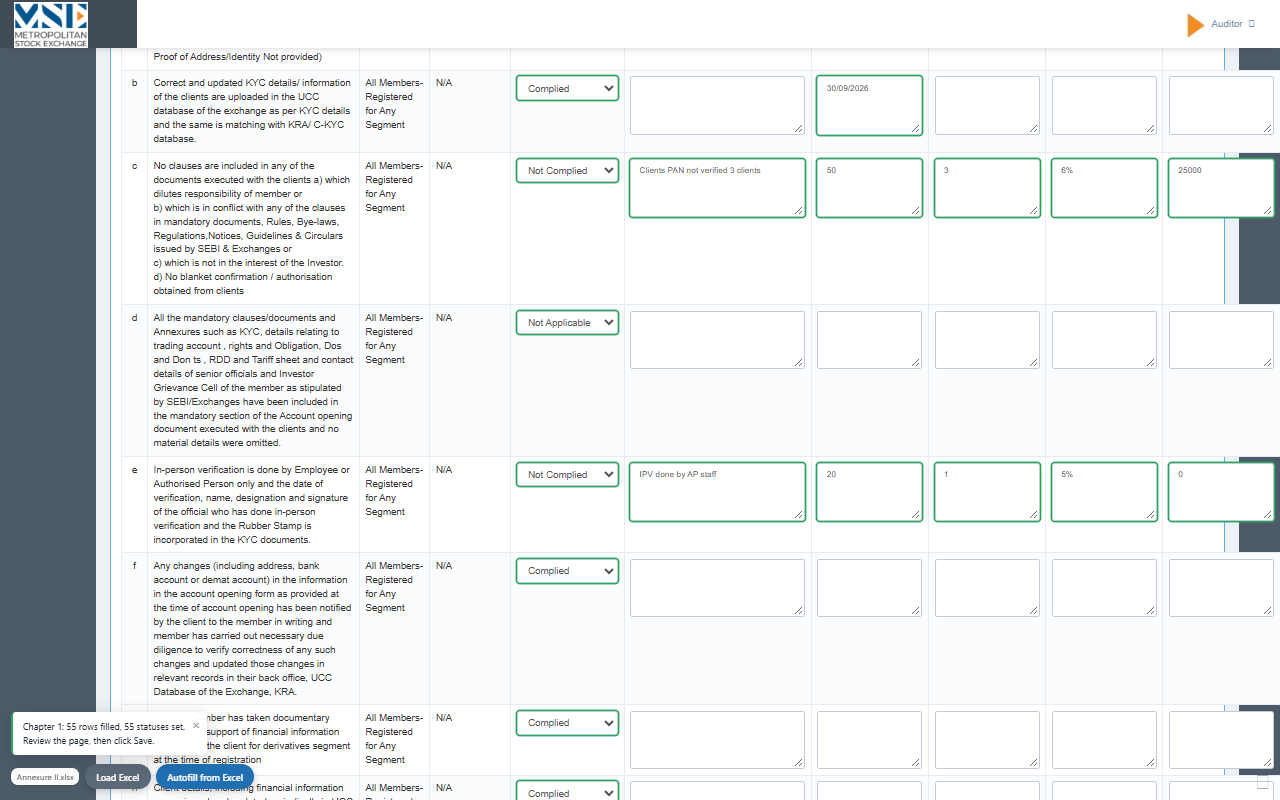
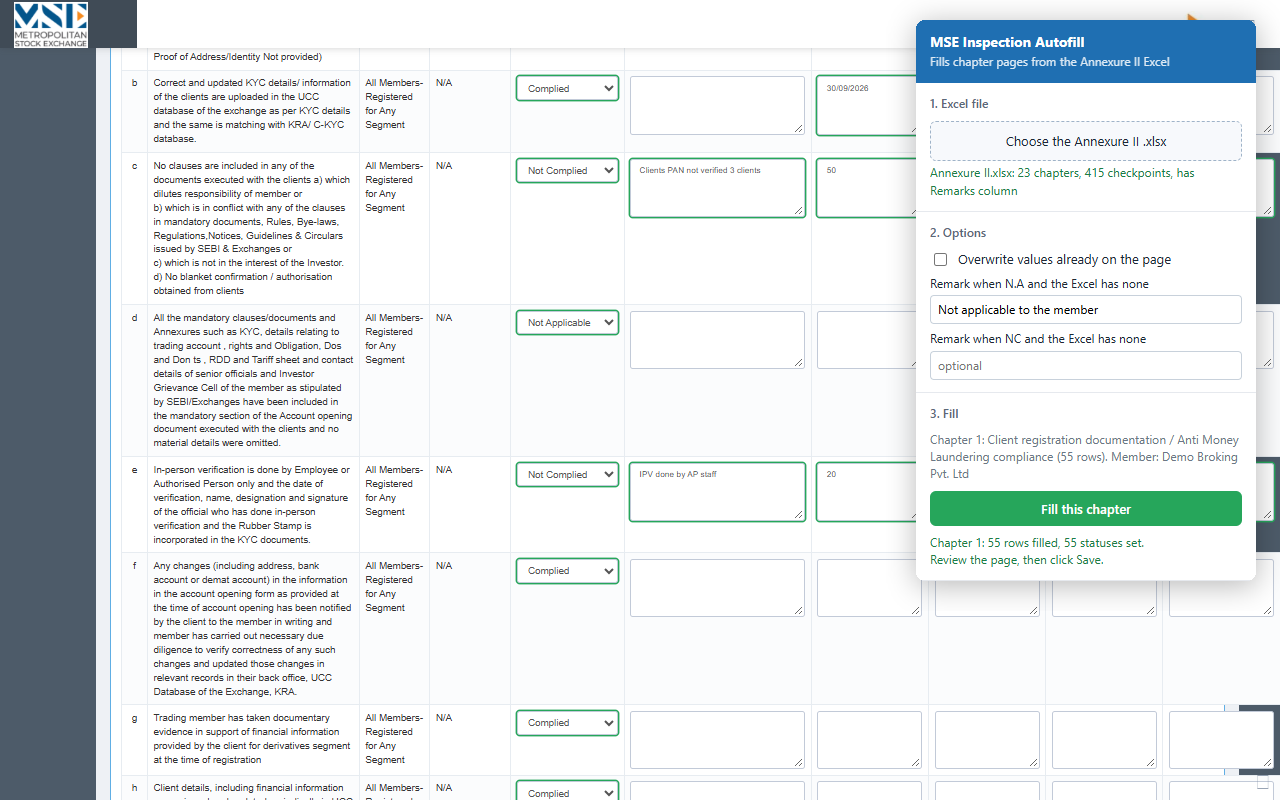
Fill only on click: remove auto-fill, refresh option and on-page buttons
Opening the popup no longer fills or reloads the page. The toolbar popup's
"Fill this chapter" button is the only way to fill. The extension never
clicks Save or Save & Continue. Store screenshots and docs updated (v1.2.0).

Changed region(s): [[0.6875, 0.0, 1.0, 0.75], [0.0, 0.875, 0.2188, 1.0]]

diff --git a/content.js b/content.js
@@ -1,124 +1,24 @@
-// Runs on inspection-os.msei.in pages. Adds a floating "Autofill" button on chapter
-// pages and answers fill requests from the popup.
+// Runs on inspection-os.msei.in pages. Does nothing on its own: it only answers the
+// popup, and fills the page only when the user clicks "Fill this chapter".
+// It never clicks Save or Save & Continue.
 
 (() => {
-  if (window.__mseAutofillLoaded) return;
-  window.__mseAutofillLoaded = true;
-  const DEFAULTS = { overwrite: false, autoFill: false, firePostback: false, defaultRemarkNA: "", defaultRemarkNC: "" };
-
   const getState = () =>
-    new Promise((res) => chrome.storage.local.get(["data", "settings"], (s) => res({ data: s.data, settings: { ...DEFAULTS, ...(s.settings || {}) } })));
-
-  async function run() {
-    const { data, settings } = await getState();
-    if (!data) {
-      const r = { error: "No Excel loaded yet. Click \"Load Excel\" (bottom left) or upload it from the extension icon." };
-      showToast(r);
-      return r;
-    }
-    const report = MSEFill.fill(document, data, settings);
-    showToast(report);
-    return report;
-  }
-
-  function summary(r) {
-    if (r.error) return r.error;
-    const lines = [`Chapter ${r.chapter.id}: ${r.filled} rows filled, ${r.statusSet} statuses set.`];
-    if (r.skipped) lines.push(`${r.skipped} boxes already had values and were kept (turn on "Overwrite" to replace them).`);
-    if (r.unmatchedPage.length) lines.push(`Not in Excel (red): ${r.unmatchedPage.join(", ")}`);
-    if (r.textMismatch.length) lines.push(`Matched by S.No only, so check the wording (orange): ${r.textMismatch.join(", ")}`);
-    if (r.unmatchedExcel.length) lines.push(`Excel rows not on page: ${r.unmatchedExcel.join(", ")}`);
-    if (r.badStatus.length) lines.push(`Unknown status values: ${r.badStatus.join(", ")}`);
-    lines.push("Review the page, then click Save.");
-    return lines.join("\n");
-  }
-
-  function showToast(r) {
-    document.getElementById("mse-autofill-toast")?.remove();
-    const box = document.createElement("div");
-    box.id = "mse-autofill-toast";
-    box.style.cssText =
-      "position:fixed;left:16px;bottom:64px;z-index:2147483647;max-width:420px;white-space:pre-wrap;" +
-      "font:13px/1.45 Segoe UI,Arial,sans-serif;color:#1d2733;background:#fff;border-radius:6px;padding:12px 32px 12px 14px;" +
-      "box-shadow:0 6px 24px rgba(0,0,0,.18);border-left:4px solid " + (r.error ? "#d9534f" : r.unmatchedPage?.length || r.badStatus?.length ? "#f0ad4e" : "#26a65b");
-    box.textContent = summary(r);
-    const x = document.createElement("span");
-    x.textContent = "×";
-    x.style.cssText = "position:absolute;top:6px;right:10px;cursor:pointer;font-size:18px;color:#888";
-    x.onclick = () => box.remove();
-    box.appendChild(x);
-    document.body.appendChild(box);
-    // Kept to the left and auto-closed so it never sits on the portal's Save buttons.
-    let timer = setTimeout(() => box.remove(), 12000);
-    box.onmouseenter = () => clearTimeout(timer);
-    box.onmouseleave = () => { timer = setTimeout(() => box.remove(), 4000); };
-  }
-
-  // Excel can also be loaded right on the page (some Chrome setups close the popup when a file dialog opens).
-  function pickExcel() {
-    const input = document.createElement("input");
-    input.type = "file";
-    input.accept = ".xlsx";
-    input.onchange = async () => {
-      const file = input.files[0];
-      if (!file) return;
-      try {
-        const parsed = parseAnnexure(await readFirstSheet(await file.arrayBuffer()));
-        const data = { ...parsed, fileName: file.name, loadedAt: Date.now() };
-        await new Promise((r) => chrome.storage.local.set({ data }, r));
-        updateLabel();
-        await run();
-      } catch (e) {
-        showToast({ error: "Could not read " + file.name + ": " + e.message });
-      }
-    };
-    input.click();
-  }
-
-  const btnCss = (bg) =>
-    "padding:9px 16px;border:0;border-radius:20px;background:" + bg + ";color:#fff;" +
-    "font:600 13px Segoe UI,Arial,sans-serif;cursor:pointer;box-shadow:0 3px 10px rgba(0,0,0,.2)";
-
-  async function updateLabel() {
-    const lbl = document.getElementById("mse-autofill-file");
-    if (!lbl) return;
-    const { data } = await getState();
-    lbl.textContent = data ? data.fileName : "No Excel loaded";
-    lbl.title = data ? "Loaded " + new Date(data.loadedAt).toLocaleString() : "";
-  }
-
-  function addButton() {
-    if (!MSEFill.gridRows(document).length || document.getElementById("mse-autofill-bar")) return;
-    const bar = document.createElement("div");
-    bar.id = "mse-autofill-bar";
-    bar.style.cssText = "position:fixed;left:16px;bottom:16px;z-index:2147483647;display:flex;gap:8px;align-items:center";
-    const lbl = document.createElement("span");
-    lbl.id = "mse-autofill-file";
-    lbl.style.cssText = "font:12px Segoe UI,Arial,sans-serif;color:#333;background:#fff;padding:4px 8px;border-radius:10px;box-shadow:0 1px 4px rgba(0,0,0,.15);max-width:220px;overflow:hidden;text-overflow:ellipsis;white-space:nowrap";
-    const load = document.createElement("button");
-    load.type = "button"; // never submit the ASP.NET form
-    load.textContent = "Load Excel";
-    load.style.cssText = btnCss("#5b6878");
-    load.onclick = pickExcel;
-    const fillBtn = document.createElement("button");
-    fillBtn.type = "button";
-    fillBtn.id = "mse-autofill-btn";
-    fillBtn.textContent = "Autofill from Excel";
-    fillBtn.style.cssText = btnCss("#1f6fb2");
-    fillBtn.onclick = run;
-    bar.append(lbl, load, fillBtn);
-    document.body.appendChild(bar);
-    updateLabel();
-  }
+    new Promise((res) => chrome.storage.local.get(["data", "settings"], (s) => res({ data: s.data, settings: s.settings || {} })));
 
   chrome.runtime.onMessage.addListener((msg, _sender, reply) => {
-    if (msg?.type === "MSE_FILL") { run().then(reply); return true; }
-    if (msg?.type === "MSE_INFO") { reply({ info: MSEFill.pageInfo(document), rows: MSEFill.gridRows(document).length }); }
-  });
-
-  chrome.storage.onChanged.addListener((c) => { if (c.data) updateLabel(); });
-  addButton();
-  getState().then(({ data, settings }) => {
-    if (data && settings.autoFill && MSEFill.gridRows(document).length) run();
+    if (msg?.type === "MSE_INFO") {
+      reply({ info: MSEFill.pageInfo(document), rows: MSEFill.gridRows(document).length });
+    } else if (msg?.type === "MSE_FILL") {
+      getState().then(({ data, settings }) => {
+        if (!data) return reply({ error: "No Excel loaded. Choose the Annexure II file first." });
+        reply(MSEFill.fill(document, data, {
+          overwrite: !!settings.overwrite,
+          defaultRemarkNA: settings.defaultRemarkNA || "",
+          defaultRemarkNC: settings.defaultRemarkNC || ""
+        }));
+      });
+      return true; // reply is async
+    }
   });
 })();

diff --git a/docs/index.html b/docs/index.html
@@ -47,13 +47,13 @@
   <p class="summary">MSE Inspection Autofill runs entirely in your browser. It reads the Excel file you choose and fills the audit report page you have open. Nothing is sent to us or to any third party. There are no analytics, tracking, or ads.</p>
 
   <h2>What the extension does</h2>
-  <p>Auditors use the extension to fill the Internal Audit Report chapter pages on the MSE inspection portal (<code>inspection-os.msei.in</code>) from the Annexure II Excel template. You upload the Excel file, open a chapter page, and click a button to fill it. You review the page and submit it to the portal yourself. The extension never submits forms for you.</p>
+  <p>Auditors use the extension to fill the Internal Audit Report chapter pages on the MSE inspection portal (<code>inspection-os.msei.in</code>) from the Annexure II Excel template. You choose the Excel file in the extension popup, open a chapter page, and click "Fill this chapter". Nothing is filled until you click. You review the page and submit it to the portal yourself. The extension never submits forms for you.</p>
 
   <h2>Information the extension handles</h2>
   <table>
     <tr><th>Information</th><th>How it is used</th><th>Where it stays</th></tr>
     <tr><td>Contents of the Excel file you choose (checkpoint wording, compliance status, sample sizes, instance counts, percentages, amounts, remarks)</td><td>To fill the matching fields on the chapter page</td><td>Your browser's local extension storage (<code>chrome.storage.local</code>) on your computer</td></tr>
-    <tr><td>Your extension settings (overwrite, auto-fill, default remarks)</td><td>To remember your choices</td><td>Local extension storage on your computer</td></tr>
+    <tr><td>Your extension settings (overwrite, default remarks)</td><td>To remember your choices</td><td>Local extension storage on your computer</td></tr>
     <tr><td>The open chapter page on the MSE portal (chapter number, checkpoint wording, form fields)</td><td>Read in the page so each Excel row lands in the right field, and the fields are filled there</td><td>Never stored or copied anywhere by the extension</td></tr>
   </table>
   <p>The extension does <strong>not</strong> collect your name, email, login details, passwords, browsing history, location, or any other personal information. It does not read pages on any other website.</p>
@@ -69,7 +69,7 @@
   <h2>Permissions</h2>
   <table>
     <tr><th>Permission</th><th>Why it is needed</th></tr>
-    <tr><td>Access to <code>inspection-os.msei.in</code></td><td>To show the Autofill buttons on chapter pages and fill the form fields</td></tr>
+    <tr><td>Access to <code>inspection-os.msei.in</code></td><td>To read the chapter number and fill the form fields on chapter pages, only when you click "Fill this chapter"</td></tr>
     <tr><td><code>storage</code></td><td>To keep the uploaded Excel data and your settings on your computer between pages</td></tr>
     <tr><td><code>activeTab</code>, <code>scripting</code></td><td>So the popup's "Fill this chapter" button can reach the open portal tab, including a tab opened before the extension was installed</td></tr>
   </table>
@@ -89,7 +89,7 @@
   <h2>Contact</h2>
   <p>Questions about this policy can be raised at <a href="https://github.com/it-theska-in/MSEI/issues">github.com/it-theska-in/MSEI/issues</a>.</p>
 
-  <p class="muted">MSE Inspection Autofill is an independent tool. It is not affiliated with, endorsed by, or operated by Metropolitan Stock Exchange of India Ltd.<br>Last updated: 21 November 2026</p>
+  <p class="muted">MSE Inspection Autofill is an independent tool. It is not affiliated with, endorsed by, or operated by Metropolitan Stock Exchange of India Ltd.<br>Last updated: 21 November 2026 (v1.2)</p>
 </main>
 </body>
 </html>

diff --git a/popup.js b/popup.js
@@ -1,5 +1,5 @@
 const $ = (id) => document.getElementById(id);
-const OPTS = ["overwrite", "autoFill", "firePostback", "defaultRemarkNA", "defaultRemarkNC"];
+const OPTS = ["overwrite", "defaultRemarkNA", "defaultRemarkNC"];
 let hasData = false;
 
 const store = {
@@ -61,7 +61,7 @@ async function talk(tab, msg) {
   let r = await send(tab.id, msg);
   if (r) return r;
   try {
-    await chrome.scripting.executeScript({ target: { tabId: tab.id }, files: ["xlsx.js", "fill.js", "content.js"] });
+    await chrome.scripting.executeScript({ target: { tabId: tab.id }, files: ["fill.js", "content.js"] });
   } catch (e) {
     return { error: tab.url?.startsWith("file:")
       ? "Chrome blocks extensions on local files. In chrome://extensions > MSE Inspection Autofill > Details, turn on \"Allow access to file URLs\", then reload the page."
@@ -75,12 +75,17 @@ $("fill").addEventListener("click", async () => {
   $("result").textContent = "Filling…";
   const r = await talk(await activeTab(), { type: "MSE_FILL" });
   if (r.error) { $("result").className = "err"; $("result").textContent = r.error; return; }
-  $("result").className = r.unmatchedPage.length || r.badStatus.length ? "" : "ok";
-  $("result").textContent =
-    `Chapter ${r.chapter.id}: ${r.filled} rows filled, ${r.statusSet} statuses set.` +
-    (r.unmatchedPage.length ? `\nNot in Excel: ${r.unmatchedPage.join(", ")}` : "") +
-    (r.skipped ? `\n${r.skipped} boxes already had values (kept).` : "") +
-    "\nReview the page, then click Save.";
+  const warn = r.unmatchedPage.length || r.badStatus.length || r.textMismatch.length;
+  $("result").className = warn ? "" : "ok";
+  $("result").textContent = [
+    `Chapter ${r.chapter.id}: ${r.filled} rows filled, ${r.statusSet} statuses set.`,
+    r.skipped && `${r.skipped} boxes already had values and were kept (tick "Overwrite" to replace them).`,
+    r.unmatchedPage.length && `Not in Excel (red): ${r.unmatchedPage.join(", ")}`,
+    r.textMismatch.length && `Matched by S.No only, so check the wording (orange): ${r.textMismatch.join(", ")}`,
+    r.unmatchedExcel.length && `Excel rows not on this page: ${r.unmatchedExcel.join(", ")}`,
+    r.badStatus.length && `Unknown status values: ${r.badStatus.join(", ")}`,
+    "Review the page, then click Save."
+  ].filter(Boolean).join("\n");
 });
 
 (async () => {

diff --git a/fill.js b/fill.js
@@ -86,9 +86,9 @@ var MSEFill = (() => {
   }
 
   /**
-   * opts: { overwrite, defaultRemarkNA, defaultRemarkNC, firePostback }
-   * firePostback=false sets the status without triggering the page's auto-postback;
-   * the values are submitted when the user clicks Save.
+   * opts: { overwrite, defaultRemarkNA, defaultRemarkNC }
+   * Statuses are set without the page's auto-postback (no refresh); the values are
+   * submitted when the user clicks Save.
    */
   function fill(doc, data, opts = {}) {
     const info = pageInfo(doc);
@@ -101,7 +101,6 @@ var MSEFill = (() => {
 
     const { pairs, unusedExcel } = matchRows(rows, chapter.rows);
     report.unmatchedExcel = unusedExcel.map((e) => `${e.sno || "-"} (Excel row ${e.excelRow})`);
-    let postbackTarget = null;
 
     for (const { pr, ex, how } of pairs) {
       if (!ex) { report.unmatchedPage.push(pr.sno); mark(pr.select, "#d9534f"); continue; }
@@ -116,7 +115,6 @@ var MSEFill = (() => {
         if (opt && (opts.overwrite || isBlank) && pr.select.value !== opt.value) {
           pr.select.value = opt.value;
           report.statusSet++;
-          if (opts.firePostback) postbackTarget = pr.select;
         }
         if (opt) mark(pr.select, color);
       }
@@ -138,8 +136,6 @@ var MSEFill = (() => {
       if (any || want) report.filled++;
     }
 
-    // Optional: let the portal run its own status-change postback once, after everything is set.
-    if (postbackTarget) postbackTarget.dispatchEvent(new Event("change", { bubbles: true }));
     return report;
   }
 

diff --git a/popup.html b/popup.html
@@ -36,8 +36,6 @@
   <section>
     <h2>2. Options</h2>
     <label class="opt"><input type="checkbox" id="overwrite"><span>Overwrite values already on the page</span></label>
-    <label class="opt"><input type="checkbox" id="autoFill"><span>Fill each chapter automatically when it opens</span></label>
-    <label class="opt"><input type="checkbox" id="firePostback"><span>Run the portal's status-change refresh after filling <span class="muted">(only turn this on if Save rejects the statuses)</span></span></label>
     <div class="small">Remark when N.A and the Excel has none
       <input type="text" id="defaultRemarkNA" placeholder="e.g. Not applicable to the member" maxlength="1000"></div>
     <div class="small" style="margin-top:6px">Remark when NC and the Excel has none

diff --git a/store/LISTING.md b/store/LISTING.md
@@ -19,9 +19,9 @@ Fill MSE internal audit report chapters from your Annexure II Excel in one click
 MSE Inspection Autofill saves auditors from re-typing the Annexure II working paper into the MSE inspection portal, one checkpoint at a time.
 
 HOW IT WORKS
-1. Upload your filled Annexure II Excel (.xlsx) once, from the extension icon or the Load Excel button on the page.
+1. Click the extension icon and choose your filled Annexure II Excel (.xlsx). You only do this once.
 2. Open any chapter of the Internal Audit Report on inspection-os.msei.in.
-3. Click "Autofill from Excel". The chapter is filled in seconds.
+3. Click "Fill this chapter". The chapter is filled in seconds. Nothing is filled until you click.
 4. Review the page and click Save yourself. The extension never submits anything for you.
 
 WHAT IT FILLS
@@ -38,7 +38,6 @@ BUILT FOR ACCURACY
 • Shows a summary of anything it couldn't match.
 • Keeps values already on the page unless you turn on Overwrite.
 • Removes characters the portal rejects (" ' ; = -) and respects field length limits.
-• Optional: fill each chapter automatically as soon as you open it after "Save & Continue".
 
 PRIVATE BY DESIGN
 Everything runs in your browser. The Excel is stored only in Chrome's local extension storage on your computer. Nothing is sent to the developer or any third party, and the extension has no analytics or tracking. It only runs on inspection-os.msei.in.
@@ -69,9 +68,9 @@ Fills the Internal Audit Report chapter pages on the MSE inspection portal (insp
 | Permission | Justification |
 |---|---|
 | `storage` | Keeps the parsed Annexure II Excel data and the user's settings in local extension storage, so the file is uploaded once and reused on every chapter page. Nothing is synced or transmitted. |
-| `activeTab` | Lets the popup's "Fill this chapter" button reach the portal tab the user is looking at when they click it. |
+| `activeTab` | Lets the popup read the open portal tab's chapter number and fill it when the user clicks "Fill this chapter". |
 | `scripting` | If the portal tab was opened before the extension was installed or updated, the popup injects the extension's own packaged content script into that tab so the fill can run without a reload. No remote code is injected. |
-| Host permission `https://inspection-os.msei.in/*` | The extension only works on this portal. It needs access to show its Autofill buttons on chapter pages and to fill the audit form fields. |
+| Host permission `https://inspection-os.msei.in/*` | The extension only works on this portal. It needs access to read the open chapter and fill the audit form fields when the user clicks "Fill this chapter". |
 
 **Remote code:** No, I am not using remote code. All JavaScript ships in the package. There is no eval and no external scripts.
 

diff --git a/README.md b/README.md
@@ -9,10 +9,8 @@ This extension fills the Internal Audit Report chapter pages on `inspection-os.m
 
 ## Use
 1. Click the extension icon and choose the filled Annexure II `.xlsx`. The file is stored in the extension, so you only upload it again when it changes.
-2. Open a chapter page, then click **Autofill from Excel** (bottom left) or **Fill this chapter** in the popup. You can also load the Excel with the **Load Excel** button on the page.
+2. Open a chapter page, click the extension icon, and click **Fill this chapter**. Nothing is filled until you click it.
 3. Review the page and click **Save** / **Save & Continue** yourself. The extension never submits the form.
-
-Turn on "Fill each chapter automatically" if you want each chapter filled as soon as it opens after Save & Continue.
 
 ## Excel mapping
 | Excel | Portal |
@@ -30,7 +28,7 @@ Chapters with no checkpoints (22 and 23) take their status from the chapter head
 
 ## Notes
 - The portal blocks typing `" ' ; =` and `-`. The extension removes those characters and turns `-` into a space.
-- Changing a status on the portal normally reloads the whole page. The extension sets the statuses without that reload, and they are sent when you click Save. If Save ever rejects them, turn on "Run the portal's status-change refresh".
+- Changing a status on the portal normally reloads the whole page. The extension sets the statuses without that reload, so the page never refreshes. The values are sent when you click Save.
 - Row colours: green means matched by checkpoint text, orange means matched by S.No only (check it), and red means no Excel row was found.
 - Boxes that already have values are kept unless "Overwrite" is on.
 
@@ -43,7 +41,7 @@ Chapters with no checkpoints (22 and 23) take their status from the chapter head
 `mock-site/` (not in git) holds a copy of the saved chapter page and a small Node server. Nothing is sent to the real portal.
 
 1. Double-click `mock-site/start-mock-site.bat`. A server window opens, then Chrome opens the mock chapter page.
-2. Load `mock/Annexure II - MOCK TEST.xlsx` and click **Autofill from Excel**.
+2. Click the extension icon, choose `mock/Annexure II - MOCK TEST.xlsx`, then click **Fill this chapter**.
 3. Click **Save**. The mock server sends the page back with a yellow banner that lists every value it received.
 
 Close the server window to stop the mock site.
